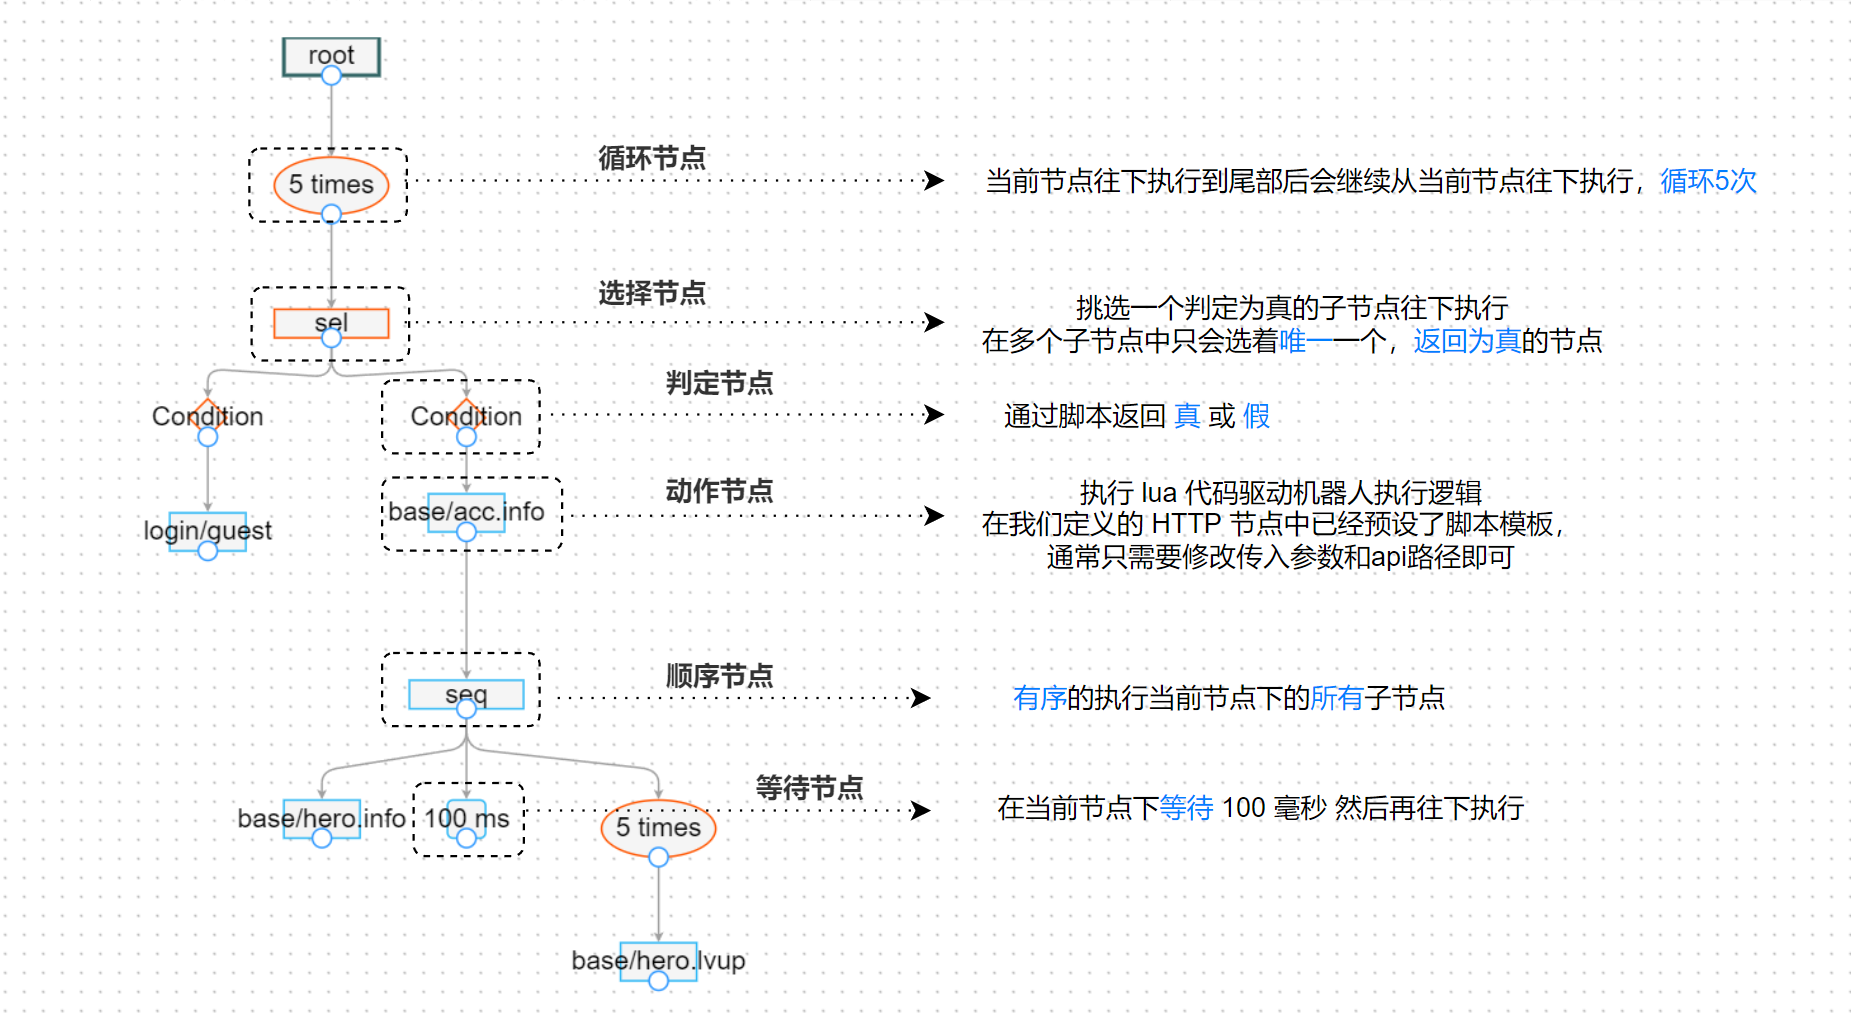
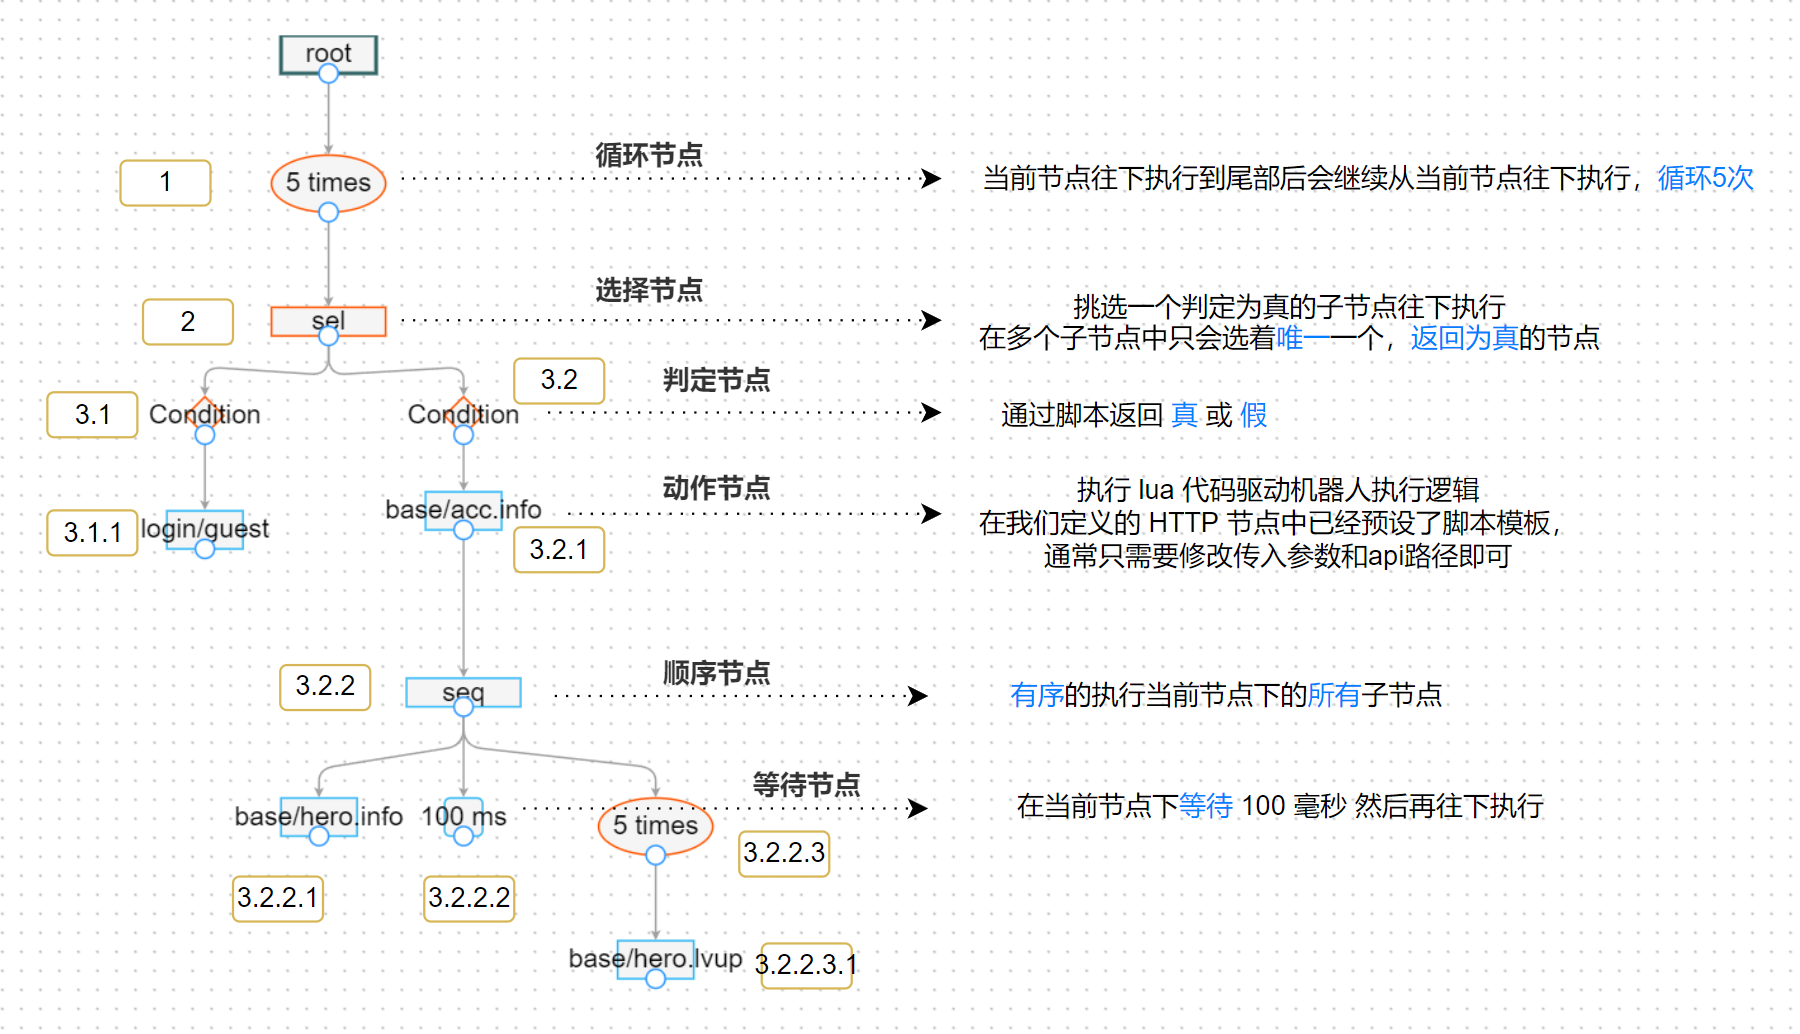
docs : update

diff --git a/zh-cn/behavior.md b/zh-cn/behavior.md
@@ -1,5 +1,5 @@
 # 行为树
-> 在游戏中用于定义非玩家的角色行为，在工业界行为树也被用于让机器人实现复杂任务
+> 略
 
 
 ### 行为树节点
@@ -13,13 +13,30 @@
 
 
 ### 案例图示
-> 我们可以在 [样例网站](http://1.117.168.37:7777/) 中尝试体验这个行为树的执行过程
-
 ![img](../res/treenode.png)
 
+> 我们可以在 [样例网站](http://1.117.168.37:7777/) 中尝试体验这个行为树的执行过程
 1. 打开网站进入 Home(主页
 2. 点击选择 api_test_http.xml , 点击上方的 Load (载入 按钮
 3. 点击右下方的 Create（创建 按钮
 4. 点击 Step (单步执行 按钮
 
-注: 我们也可以点选任意一个节点，查看节点的可编辑数据（脚本) 是如何配置的
+> 注: 我们也可以点选任意一个节点，查看节点的可编辑数据（脚本) 是如何配置的
+
+---
+
+### 案例描述
+- (1) 链接`循环节点`并设置为`5次`，表示这颗树会循环执行5遍
+- (2) 因为我们需要逻辑上走`不同的分支`，所以这里链接个`选择节点`
+- (3) 判定节点
+    - (3.1) 这个判定分支在代码中`判定了 Token ==等于 空`的逻辑，表示当`这是一个新账号的时候`走这个分支
+        - (3.1.1) 当没有账号的时候，我们链接了一个 `HTTP 节点`，用于实现`游客登陆的逻辑`，并将新账号的 Token 赋予 meta.Token 字段，在后续的逻辑中，我们`只需调用 meta.Token 即可获取这个值`
+    - (3.2) 这个判定分支在代码中`判定了 Token ~=不等于 空`的逻辑，表示当这是一个`老账号`的时候走的分支
+        - (3.2.1) 当拥有账号的时候，我们实现了一个`获取账号信息`的 `HTTP 节点`
+        - (3.2.2) 当我们获取到账户信息后，我们`需要执行一系列的动作`，因此我们链接了一个`顺序节点`，用于执行一系列的动作
+            - (3.2.2.1) 获取账号的英雄信息
+            - (3.2.2.2) 等待 100 毫秒
+            - (3.2.2.3) 链接一个循环节点，将挂靠在`本节点下面的动作执行5次`
+                - (3.2.2.3.1) 执行账号英雄升级的请求
+
+> 通过上面的案例，我们使用机器人先登录了账号，然后执行了4遍，升级英雄账号5次的行为； 通过 Step 我们可以看到每一个节点上机器人数据的变化过程
